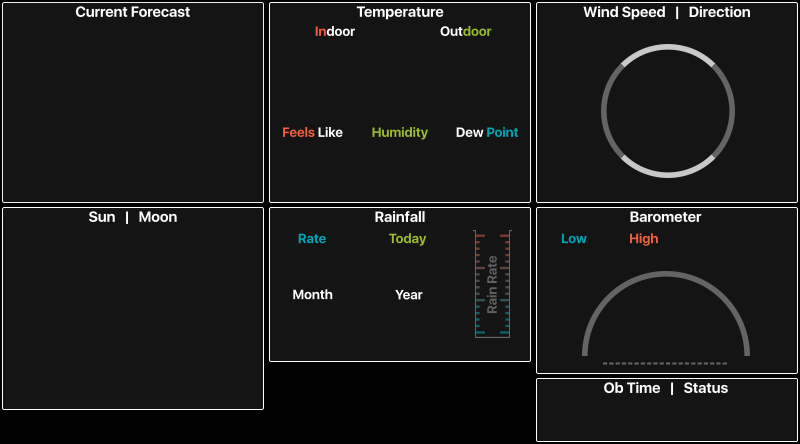
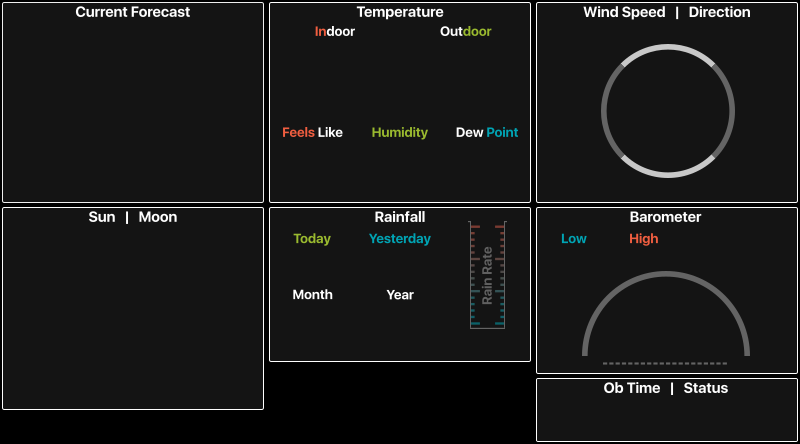
Improvements *Redesigned rainfall panel *Added yeserday rainfall total *Improved CardinalWindDir()

Changed region(s): [[0.4688, 0.4977, 0.6562, 0.7613], [0.3438, 0.527, 0.4375, 0.5563], [0.4688, 0.6441, 0.5312, 0.6734]]

diff --git a/main.py b/main.py
@@ -140,9 +140,9 @@ class WeatherFlowPiConsole(App):
 	SkyRapidIcon = NumericProperty(0)							 
 	Sky = DictProperty([('WindSpd','----'),('WindGust','--'),('WindDir','---'),
 						('AvgWind','--'),('MaxGust','--'),('RainRate','---'),
-						('DayRain','--'),('MonthRain','--'),('YearRain','--'),
-						('Radiation','----'),('UV','---'),('Time','-'),
-						('Battery','--'),('StatusIcon','Error')])
+						('TodayRain','--'),('YesterdayRain','--'),('MonthRain','--'),
+						('YearRain','--'),('Radiation','----'),('UV','---'),
+						('Time','-'),('Battery','--'),('StatusIcon','Error')])
 	Breathe = DictProperty([('Temp','--'),('MinTemp','---'),('MaxTemp','---')])		
 	Air = DictProperty([('Temp','--'),('MinTemp','---'),('MaxTemp','---'),
 						('Humidity','--'),('DewPoint','--'),('Pres','---'),
@@ -264,12 +264,13 @@ class WeatherFlowPiConsole(App):
 		else:
 			Template = 'http://api.geonames.org/findNearbyPlaceName?lat={}&lng={}&username={}&radius=10&featureClass=P&maxRows=20&type=json'	
 			URL = Template.format(self.System['Lat'],self.System['Lon'],self.System['GeoNamesKey'])
-			Data = requests.get(URL).json()
-			Locns = [Item['name'] for Item in Data['geonames']]
-			Len = [len(Item) for Item in Locns]
-			Ind = next((Item for Item in Len if Item<=11),NaN)
-			if Ind != NaN:
-				self.System['ForecastLocn'] = Locns[Len.index(Ind)]
+			Data = requests.get(URL)
+			if Data.ok:
+				Locns = [Item['name'] for Item in Data.json()['geonames']]
+				Len = [len(Item) for Item in Locns]
+				Ind = next((Item for Item in Len if Item<=11),NaN)
+				if Ind != NaN:
+					self.System['ForecastLocn'] = Locns[Len.index(Ind)]
 			else:
 				self.System['ForecastLocn'] = ''
 									
@@ -373,16 +374,17 @@ class WeatherFlowPiConsole(App):
 		# Calculate derived variables from SKY observations
 		FeelsLike = self.FeelsLike(Temp,Humidity,WindSpd)
 		RainRate = self.RainRate(Rain)
-		DayRain,MonthRain,YearRain = self.RainAccumulation(Rain) 
+		TodayRain,YesterdayRain,MonthRain,YearRain = self.RainAccumulation(Rain) 
 		AvgWind = self.MeanWindSpeed(WindSpd)
 		MaxGust = self.SkyObsMaxMin(WindSpd,WindGust)
 		Beaufort = self.BeaufortScale(WindSpd)
-		WindDir = self.WindDirection(WindDir,WindSpd)
+		WindDir = self.CardinalWindDirection(WindDir,WindSpd)
 		UV = self.UVIndex(UV)
 		
 		# Convert observation units as required
 		RainRate = self.ObservationUnits(RainRate,self.System['Units']['Precip'])
-		DayRain = self.ObservationUnits(DayRain,self.System['Units']['Precip'])
+		TodayRain = self.ObservationUnits(TodayRain,self.System['Units']['Precip'])
+		YesterdayRain = self.ObservationUnits(YesterdayRain,self.System['Units']['Precip'])
 		MonthRain = self.ObservationUnits(MonthRain,self.System['Units']['Precip'])
 		YearRain = self.ObservationUnits(YearRain,self.System['Units']['Precip'])
 		WindSpd = self.ObservationUnits(WindSpd,self.System['Units']['Wind'])
@@ -395,7 +397,8 @@ class WeatherFlowPiConsole(App):
 		# Define SKY Kivy label binds	
 		self.Sky['Time'] =  datetime.fromtimestamp(Time[0],self.System['tz']).strftime('%H:%M:%S')
 		self.Sky['RainRate'] = self.ObservationFormat(RainRate,'Precip')
-		self.Sky['DayRain'] = self.ObservationFormat(DayRain,'Precip')
+		self.Sky['TodayRain'] = self.ObservationFormat(TodayRain,'Precip')
+		self.Sky['YesterdayRain'] = self.ObservationFormat(YesterdayRain,'Precip')
 		self.Sky['MonthRain'] = self.ObservationFormat(MonthRain,'Precip')
 		self.Sky['YearRain'] = self.ObservationFormat(YearRain,'Precip')
 		self.Sky['WindSpd'] = self.ObservationFormat(WindSpd,'Wind') + Beaufort
@@ -496,7 +499,7 @@ class WeatherFlowPiConsole(App):
 		self.SkyRapid['Obs'] = Obs
 		
 		# Calculate derived variables from Rapid SKY observations
-		WindDir = self.WindDirection(WindDir,WindSpd)
+		WindDir = self.CardinalWindDirection(WindDir,WindSpd)
 		
 		# Convert observation units as required
 		WindSpd = self.ObservationUnits(WindSpd,self.System['Units']['Wind'])
@@ -584,7 +587,7 @@ class WeatherFlowPiConsole(App):
 						cObs[ii-1] = 'Calm'
 						cObs[ii] = ''
 					elif Unit == 'cardinal':
-						cObs[ii-1] = self.WindDirection(Obs[ii-1:ii+1])[2]   
+						cObs[ii-1] = self.CardinalWindDirection(Obs[ii-1:ii+1])[2]   
 						cObs[ii] = ''
 					else:
 						cObs[ii-1] = Obs[ii-1]   
@@ -850,7 +853,7 @@ class WeatherFlowPiConsole(App):
 		
 		# Code initialising. Download all data for current day using Weatherflow 
 		# API. Calculate total daily rainfall
-		if self.Sky['DayRain'][0] == '-':
+		if self.Sky['TodayRain'][0] == '-':
 		
 			# Convert midnight today in Station timezone to midnight today in  
 			# UTC. Convert UTC time into UNIX timestamp
@@ -870,7 +873,30 @@ class WeatherFlowPiConsole(App):
 			Rain = [[item[3],'mm'] if item[3] != None else NaN for item in Data]
 			
 			# Calculate daily rain accumulation
-			DayRain = [sum([x for x,y in Rain]),'mm',sum([x for x,y in Rain]),Now]
+			TodayRain = [sum([x for x,y in Rain]),'mm',sum([x for x,y in Rain]),Now]
+			
+		# Code initialising. Download all data for yesterday using Weatherflow 
+		# API. Calculate total daily rainfall
+		if self.Sky['YesterdayRain'][0] == '-':
+		
+			# Convert midnight yesterday in Station timezone to midnight 
+			# yesterday in UTC. Convert UTC time into UNIX timestamp
+			Date = date.today()	- timedelta(days=1)		
+			Midnight = Tz.localize(datetime.combine(Date,time()))		
+			Midnight_UTC = int(Midnight.timestamp())
+			
+			# Convert current time in Station timezone to current time in  UTC. 
+			# Convert current time time into UNIX timestamp
+			End_UTC = Midnight_UTC + (60*60*24)-1												
+
+			# Download rainfall data for current month
+			Template = ('https://swd.weatherflow.com/swd/rest/observations/device/{}?time_start={}&time_end={}&api_key={}')
+			URL = Template.format(self.System['SkyID'],Midnight_UTC,End_UTC,self.System['WFlowKey'])
+			Data = requests.get(URL).json()['obs']
+			Rain = [[item[3],'mm'] if item[3] != None else NaN for item in Data]
+			
+			# Calculate daily rain accumulation
+			YesterdayRain = [sum([x for x,y in Rain]),'mm',sum([x for x,y in Rain]),Now]
 
 		# Code initialising. Download all data for current month using 
 		# Weatherflow API. Calculate total monthly rainfall
@@ -913,15 +939,17 @@ class WeatherFlowPiConsole(App):
 			YearRain = [sum([x for x,y in Rain]),'mm',sum([x for x,y in Rain]),Now]
 			
 			# Return Daily, Monthly, and Yearly rainfall accumulation totals
-			return DayRain,MonthRain,YearRain
+			return TodayRain,YesterdayRain,MonthRain,YearRain
 			
 		# At midnight, reset daily rainfall accumulation to zero, else add 
 		# current rainfall to current daily rainfall accumulation
-		if Now.date() > self.Sky['DayRain'][3].date():
-			DayRain = [Rain[0],'mm',Rain[0],Now]
+		if Now.date() > self.Sky['TodayRain'][3].date():
+			TodayRain = [Rain[0],'mm',Rain[0],Now]
+			YesterdayRain = [self.Sky['TodayRain'][2],'mm',self.Sky['TodayRain'][2],Now]
 		else:
-			RainAccum = self.Sky['DayRain'][2]+Rain[0]
-			DayRain = [RainAccum,'mm',RainAccum,Now]	
+			RainAccum = self.Sky['TodayRain'][2]+Rain[0]
+			TodayRain = [RainAccum,'mm',RainAccum,Now]
+			YesterdayRain = [self.Sky['YesterdayRain'][2],'mm',self.Sky['YesterdayRain'][2],Now]
 		
 		# At end of month, reset monthly rainfall accumulation to zero, else add 
 		# current rainfall to current monthly rainfall accumulation
@@ -941,7 +969,7 @@ class WeatherFlowPiConsole(App):
 			YearRain = [RainAccum,'mm',RainAccum,Now]	
 			
 		# Return Daily, Monthly, and Yearly rainfall accumulation totals
-		return DayRain,MonthRain,YearRain
+		return TodayRain,YesterdayRain,MonthRain,YearRain
 		
 	# CALCULATE THE RAIN RATE FROM THE PREVIOUS 1 MINUTE RAIN ACCUMULATION
     # --------------------------------------------------------------------------
@@ -1216,66 +1244,25 @@ class WeatherFlowPiConsole(App):
 
 	# CALCULATE CARDINAL WIND DIRECTION FROM WIND DIRECTION IN DEGREES
 	# --------------------------------------------------------------------------
-	def WindDirection(self,Dir,Spd=[1,'mps']):
-			
-		# Define cardinal wind direction and description based on wind direction 
-		# in degrees
+	def CardinalWindDirection(self,Dir,Spd=[1,'mps']):
+	
+		# Define all possible cardinal wind directions and descriptions
+		Direction = ['N','NNE','NE','ENE','E','ESE','SE','SSE','S','SSW','SW','WSW','W','WNW','NW','NNW','N']
+		Description = ['Due North','North NE','North East','East NE','Due East','East SE','South East','South SE',
+					   'Due South','South SW','South West','West SW','Due West','West NW','North West','North NW',
+					   'Due North']
+	
+		# Define actual cardinal wind direction and description based on current
+		# wind direction in degrees
 		if Spd[0] == 0:
-			Description = '[color=9aba2fff]Calm[/color]'
 			Direction = 'Calm'
-		elif Dir[0] <= 11.25:
-			Description = 'Due [color=9aba2fff]North[/color]'
-			Direction = 'N'
-		elif Dir[0] <= 33.75:
-			Description = 'North [color=9aba2fff]NE[/color]'
-			Direction = 'NNE'
-		elif Dir[0] <= 56.25:
-			Description = 'North [color=9aba2fff]East[/color]'
-			Direction = 'NE'
-		elif Dir[0] <= 78.75:
-			Description = 'East [color=9aba2fff]NE[/color]'
-			Direction = 'ENE'
-		elif Dir[0] <= 101.25:
-			Description = 'Due [color=9aba2fff]East[/color]'
-			Direction = 'E'
-		elif Dir[0] <= 123.75:
-			Description = 'East [color=9aba2fff]SE[/color]'
-			Direction = 'ESE'
-		elif Dir[0] <= 146.25:
-			Description = 'South [color=9aba2fff]East[/color]'
-			Direction = 'SE'
-		elif Dir[0] <= 168.75:
-			Description = 'South [color=9aba2fff]SE[/color]'
-			Direction = 'SSE'
-		elif Dir[0] <= 191.25:
-			Description = 'Due [color=9aba2fff]South[/color]'
-			Direction = 'S'
-		elif Dir[0] <= 213.75:
-			Description = 'South [color=9aba2fff]SW[/color]'
-			Direction = 'SSW'
-		elif Dir[0] <= 236.25:
-			Description = 'South [color=9aba2fff]West[/color]'
-			Direction = 'SW'
-		elif Dir[0] <= 258.75:
-			Description = 'West [color=9aba2fff]SW[/color]'
-			Direction = 'WSW'
-		elif Dir[0] <= 281.25:
-			Description = 'Due [color=9aba2fff]West[/color]'
-			Direction = 'W'
-		elif Dir[0] <= 303.75:
-			Description = 'West [color=9aba2fff]NW[/color]'
-			Direction = 'WNW'
-		elif Dir[0] <= 326.25:
-			Description = 'North [color=9aba2fff]West[/color]'
-			Direction = 'NW'			
-		elif Dir[0] <= 348.75:
-			Description = 'North [color=9aba2fff]NW[/color]'
-			Direction = 'NNW'
+			Description = '[color=9aba2fff]Calm[/color]'
 		else:
-			Description = 'Due [color=9aba2fff]North[/color]'
-			Direction = 'N'
-			
-		# Cardinal wind direction and description
+			Ind = int(round(Dir[0]/22.5))
+			Direction = Direction[Ind]
+			Description = Description[Ind].split()[0] + ' [color=9aba2fff]' + Description[Ind].split()[1] + '[/color]'
+					
+		# Return cardinal wind direction and description
 		return [Dir[0],Dir[1],Direction,Description]		
 	
 	# SET THE BEAUFORT SCALE WIND SPEED, DESCRIPTION, AND ICON
@@ -1976,7 +1963,7 @@ class CurrentConditions(Screen):
 	# Define Kivy properties required by 'CurrentConditions' 
 	Screen = DictProperty([('Clock','--'),('SunMoon','Sun'),
 						   ('MetSager','Met'),
-						   ('xRainAnim',476),('yRainAnim',3)])
+						   ('xRainAnim',471),('yRainAnim',12)])
 					
 	# INITIALISE 'CurrentConditions' CLASS
 	# --------------------------------------------------------------------------
@@ -2002,8 +1989,8 @@ class CurrentConditions(Screen):
 			return	
 			
 		# Define required animation variables
-		x0 = 3
-		xt = 116
+		x0 = 12
+		xt = 125
 		t = 50
 			
 		# Calculate rain rate animation y position	
@@ -2018,8 +2005,8 @@ class CurrentConditions(Screen):
 			self.Screen['yRainAnim'] = xt				
 
 		# Rain rate animation x position
-		if self.Screen['xRainAnim']-1 == 245:
-			self.Screen['xRainAnim'] = 476
+		if self.Screen['xRainAnim']-1 == 240:
+			self.Screen['xRainAnim'] = 471
 		else:
 			self.Screen['xRainAnim'] -= 1	
 			
